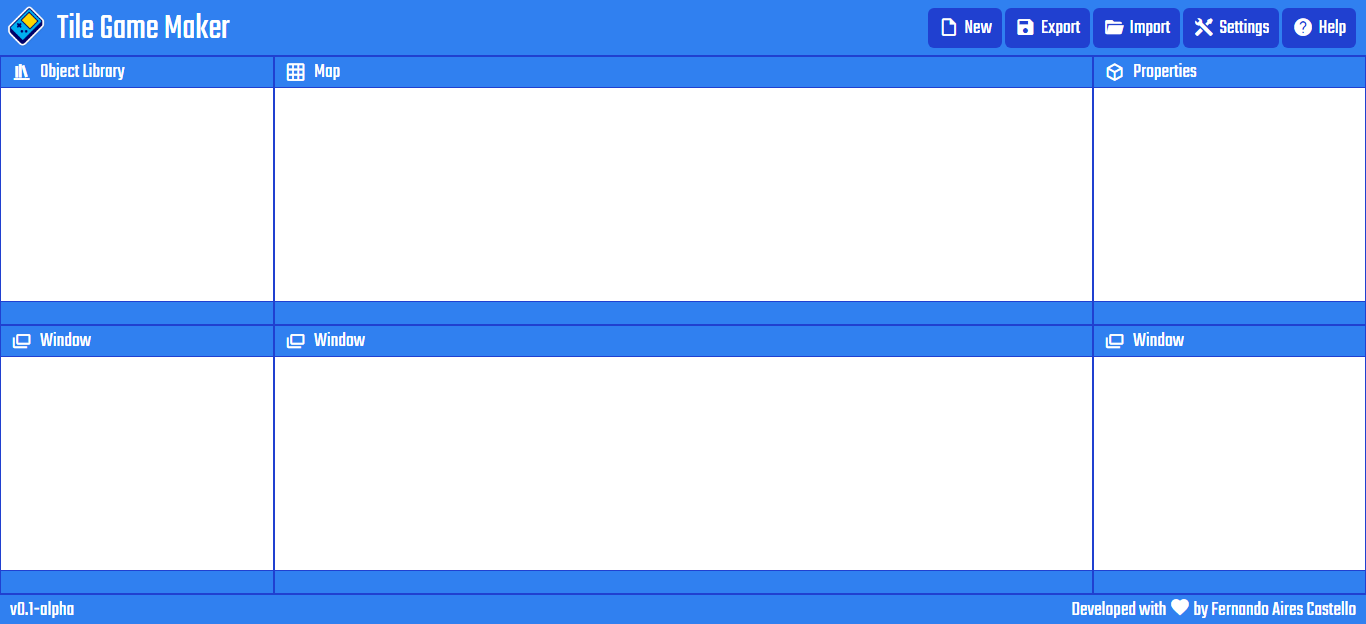
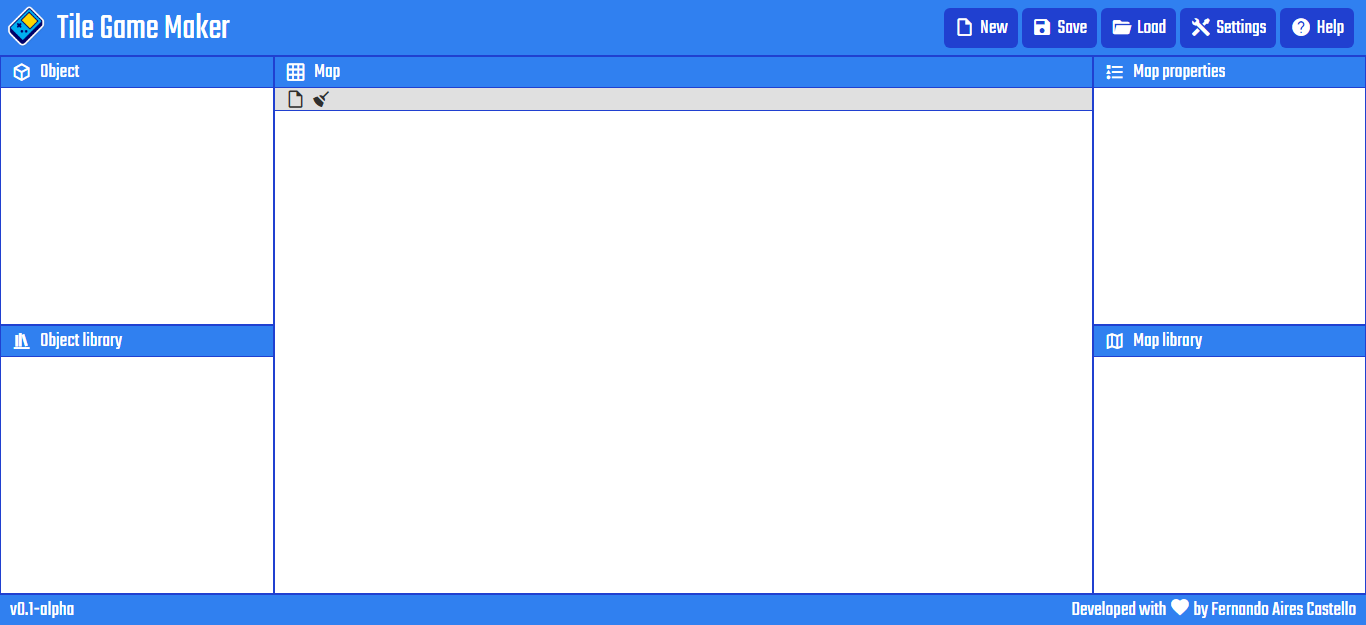
UI improvements

diff --git a/lib/localforage.min.js b/lib/localforage.min.js
@@ -1,0 +1,7 @@
+/*!
+    localForage -- Offline Storage, Improved
+    Version 1.7.3
+    https://localforage.github.io/localForage
+    (c) 2013-2017 Mozilla, Apache License 2.0
+*/
[1 lines of base64/hex data omitted]

diff --git a/tile-game-maker/classes/ui.js b/tile-game-maker/classes/ui.js
@@ -1,24 +1,45 @@
 class TGM_Ui {
 
     constructor() {
+        this.defineButtons();
         this.defineWindows();
         this.initStyles();
-        this.initButtonHandlers();
         this.fadeIn();
     }
 
+    defineButtons() {
+       this.defineButton('file-outline', 'New', () => this.btnNewClick());
+       this.defineButton('content-save', 'Save', () => this.btnSaveClick());
+       this.defineButton('folder-open', 'Load', () => this.btnLoadClick());
+       this.defineButton('tools', 'Settings', () => this.btnSettingsClick());
+       this.defineButton('help-circle', 'Help', () => this.btnHelpClick());
+    }
+
+    defineButton(icon, title, onclick) {
+        const buttons = $('.button-container');
+        const button = `<div class="button"><span class="mdi mdi-${icon}"></span>${title}</div>`;
+        buttons.append(button).click(onclick);
+    }
+
     defineWindows() {
-        this.defineWindow('#top-left-window', 'bookshelf', 'Object Library');
+        $('.floating-window .mdi-close').click(this.hideFloatingWindow);
+        // Map
         this.defineWindow('#top-center-window', 'grid', 'Map');
-        this.defineWindow('#top-right-window', 'cube-outline', 'Properties');
-        this.defineWindow('#bottom-left-window', 'dock-window', 'Window');
-        this.defineWindow('#bottom-center-window', 'dock-window', 'Window');
-        this.defineWindow('#bottom-right-window', 'dock-window', 'Window');
+        this.addToolButton('#top-center-window', 'file-outline', 'New map');
+        this.addToolButton('#top-center-window', 'broom', 'Clear map');
+        // Object
+        this.defineWindow('#top-left-window', 'cube-outline', 'Object');
+        // Object library
+        this.defineWindow('#bottom-left-window', 'bookshelf', 'Object library');
+        // Map properties
+        this.defineWindow('#top-right-window', 'format-list-bulleted-type', 'Map properties');
+        // Map library
+        this.defineWindow('#bottom-right-window', 'map-outline', 'Map library');
     }
 
     defineWindow(windowSelector, icon, title, footer, content) {
         const window = $(windowSelector);
-        window.find('span.mdi').replaceWith(`<span class="mdi mdi-${icon ? icon : ''}">`);
+        window.find('span.mdi').first().replaceWith(`<span class="mdi mdi-${icon ? icon : ''}">`);
         window.find('.window-title').html(title ? title : '');
         window.find('.window-footer').html(footer ? footer : '');
         window.find('.window-content').html(content ? content : '');
@@ -39,51 +60,52 @@ class TGM_Ui {
         this.setWindowBarTextColor('#ffffff');
         this.setWindowBackColor('#ffffff');
         this.setWindowTextColor('#000000');
+        // Toolbars
+        this.setToolbarBackColor('#e0e0e0');
+        this.setToolbarTextColor('#303030');
     }
 
     fadeIn() {
         $('body').fadeIn('slow');
     }
 
-    initButtonHandlers() {
-        $('#btn-new').click(() => this.btnNewClick());
-        $('#btn-export').click(() => this.btnExportClick());
-        $('#btn-import').click(() => this.btnImportClick());
-        $('#btn-settings').click(() => this.btnSettingsClick());
-        $('#btn-help').click(() => this.btnHelpClick());
+    alert(message, title, footer) {
+        this.showFloatingWindow(message, title, footer);
     }
 
-    alert(x, y, width, height, message, title, footer) {
-        this.showFloatingWindow(x, y, width, height, message, title ? title : 'Alert', footer);
+    btnNewClick() {
+    }
+
+    btnSaveClick() {
+    }
+
+    btnLoadClick() {
+    }
+
+    btnSettingsClick() {
     }
 
     btnHelpClick() {
-        this.alert(100, 100, 300, 200, "There's no help here...", "Help");
+        this.alert("There's no help here...", "Help", "Click on the X to close this window");
     }
 
-    showFloatingWindow(x, y, width, height, content, title, footer) {
-        const style = `top:${y}; left:${x}; width:${width}; height:${height}`;
-        const window =
-        `<div class="window floating-window" style="${style}">
-            <div class="window-title-bar">
-                <span class="window-title">${title ? title : ''}</span>
-                <span class="mdi mdi-close"></span>
-            </div>
-            <div class="window-content">${content}</div>
-            <div class="window-footer">${footer ? footer : ''}</div>
-        </div>`;
-
-        $('.floating-window-container').append(window);
-        $('.floating-window-container').fadeIn();
-        $('.floating-window .mdi-close').click(() => this.closeFloatingWindows());
-        $('.floating-window .mdi-close').css('cursor', 'pointer');
-
-        this.initStyles();
+    showFloatingWindow(content, title, footer) {
+        const window = $('.floating-window-container');
+        window.find('.window-title').html(title ? title : '');
+        window.find('.window-footer').html(footer ? footer : '');
+        window.find('.window-content').html(content ? content : '');
+        window.fadeIn();
     }
 
-    closeFloatingWindows() {
+    hideFloatingWindow() {
         $('.floating-window-container').fadeOut();
-        $('.floating-window').remove();
+    }
+
+    addToolButton(windowSelector, icon, title, onclick) {
+        const window = $(windowSelector);
+        const button = `<span class="mdi mdi-${icon}"></span>`;
+        const toolbar = window.find('.window-toolbar');
+        toolbar.append(button);
     }
 
     setWorkspaceBackColor(color) {
@@ -103,6 +125,7 @@ class TGM_Ui {
         $('.footer-bar').css('border-top-color', color);
         $('.window').css('border-color', color);
         $('.window-title-bar').css('border-bottom-color', color);
+        $('.window-toolbar').css('border-bottom-color', color);
         $('.window-footer').css('border-top-color', color);
     }
 
@@ -126,6 +149,14 @@ class TGM_Ui {
     setWindowBarTextColor(color) {
         $('.window-title-bar').css('color', color);
         $('.window-footer').css('color', color);
+    }
+
+    setToolbarBackColor(color) {
+        $('.window-toolbar').css('background', color);
+    }
+
+    setToolbarTextColor(color) {
+        $('.window-toolbar').css('color', color);
     }
 
     makeGradient(color1, color2) {

diff --git a/tile-game-maker/tile-game-maker.html b/tile-game-maker/tile-game-maker.html
@@ -18,7 +18,17 @@
     <script src="tile-game-maker.js"></script>
 </head>
 <body>
-    <div class="floating-window-container"></div>
+    <!-- Floating modal window -->
+    <div class="floating-window-container">
+        <div class="window floating-window">
+            <div class="window-title-bar">
+                <span class="mdi mdi-dock-window"></span>
+                <span class="window-title"></span>
+                <span class="mdi mdi-close"></span>
+            </div>
+            <div class="window-content"></div>
+        </div>
+    </div>
     <table class="root-panel">
         <!-- Top application bar -->
         <tr>
@@ -31,84 +41,63 @@
                         <div class="title">Tile Game Maker</div>
                     </div>
                     <!-- Buttons -->
-                    <div class="button-container">
-                        <div id="btn-new" class="button"><span class="mdi mdi-file-outline"></span>New</div>
-                        <div id="btn-export" class="button"><span class="mdi mdi-content-save"></span>Export</div>
-                        <div id="btn-import" class="button"><span class="mdi mdi-folder-open"></span>Import</div>
-                        <div id="btn-settings" class="button"><span class="mdi mdi-tools"></span>Settings</div>
-                        <div id="btn-help" class="button"><span class="mdi mdi-help-circle"></span>Help</div>
-                    </div>
+                    <div class="button-container"></div>
                 </div>
             </td>
         </tr>
         <!-- Workspace panels -->
         <tr>
             <!-- Top left panel -->
-            <td class="workspace-panel workspace-left-panel">
+            <td class="workspace-panel workspace-top-panel workspace-side-panel">
                 <div id="top-left-window" class="window">
                     <div class="window-title-bar">
                         <span class="mdi"></span>
                         <span class="window-title"></span>
                     </div>
                     <div class="window-content"></div>
-                    <div class="window-footer"></div>
                 </div>
             </td>
             <!-- Top center panel -->
-            <td class="workspace-panel workspace-center-panel">
+            <td class="workspace-panel workspace-top-panel workspace-center-panel" rowspan="2">
                 <div id="top-center-window" class="window">
                     <div class="window-title-bar">
                         <span class="mdi"></span>
                         <span class="window-title"></span>
                     </div>
+                    <div class="window-toolbar"></div>
                     <div class="window-content"></div>
-                    <div class="window-footer"></div>
                 </div>
             </td>
             <!-- Top right panel -->
-            <td class="workspace-panel workspace-right-panel">
+            <td class="workspace-panel workspace-top-panel workspace-side-panel">
                 <div id="top-right-window" class="window">
                     <div class="window-title-bar">
                         <span class="mdi"></span>
                         <span class="window-title"></span>
                     </div>
                     <div class="window-content"></div>
-                    <div class="window-footer"></div>
                 </div>
             </td>
         </tr>
         <tr>
             <!-- Bottom left panel -->
-            <td class="workspace-panel workspace-left-panel">
+            <td class="workspace-panel workspace-bottom-panel workspace-side-panel">
                 <div id="bottom-left-window" class="window">
                     <div class="window-title-bar">
                         <span class="mdi"></span>
                         <span class="window-title"></span>
                     </div>
                     <div class="window-content"></div>
-                    <div class="window-footer"></div>
-                </div>
-            </td>
-            <!-- Bottom center panel -->
-            <td class="workspace-panel workspace-center-panel">
-                <div id="bottom-center-window" class="window">
-                    <div class="window-title-bar">
-                        <span class="mdi"></span>
-                        <span class="window-title"></span>
-                    </div>
-                    <div class="window-content"></div>
-                    <div class="window-footer"></div>
                 </div>
             </td>
             <!-- Bottom right panel -->
-            <td class="workspace-panel workspace-right-panel">
+            <td class="workspace-panel workspace-bottom-panel workspace-side-panel">
                 <div id="bottom-right-window" class="window">
                     <div class="window-title-bar">
                         <span class="mdi"></span>
                         <span class="window-title"></span>
                     </div>
                     <div class="window-content"></div>
-                    <div class="window-footer"></div>
                 </div>
             </td>
         </tr>

diff --git a/tile-game-maker/tile-game-maker.css b/tile-game-maker/tile-game-maker.css
@@ -12,7 +12,7 @@ body {
 /*==============================================================================
     ROOT PANEL
 ==============================================================================*/
-.root-panel, .floating-window-container {
+.root-panel {
     border: 0;
     padding: 0;
     margin: 0;
@@ -22,11 +22,6 @@ body {
 }
 .root-panel {
     border-collapse: collapse;
-}
-.floating-window-container {
-    position: absolute;
-    background-color: rgba(0, 0, 0, 0.5);
-    display: none;
 }
 /*==============================================================================
     TOP / BOTTOM BARS
@@ -72,6 +67,7 @@ td.bar.bottom {
 .button {
     border-radius: 6px;
     padding: 5px 10px;
+    margin: 0px 2px;
     cursor: pointer;
     display: inline-block;
 }
@@ -109,13 +105,10 @@ td.left-panel, td.right-panel {
     vertical-align: top;
     padding: 0;
 }
-.workspace-left-panel {
-    width: 20%;
-}
 .workspace-center-panel {
     width: 60%;
 }
-.workspace-right-panel {
+.workspace-side-panel {
     width: 20%;
 }
 /*==============================================================================
@@ -139,11 +132,18 @@ td.left-panel, td.right-panel {
     user-select: none;
     border-bottom: 1px solid #000;
 }
+.window-toolbar {
+    padding: 0 10px;
+    user-select: none;
+    border-bottom: 1px solid #000;
+}
+.window-toolbar span.mdi {
+    cursor: pointer;
+}
 .window-footer {
     padding: 0 10px;
     user-select: none;
     border-top: 1px solid #000;
-    height: 28px;
 }
 .window-content {
     padding: 0;
@@ -152,10 +152,28 @@ td.left-panel, td.right-panel {
 /*==============================================================================
     FLOATING WINDOWS
 ==============================================================================*/
-.floating-window {
+.floating-window-container {
+    display: none;
+    border: 0;
+    padding: 0;
+    margin: 0;
+    font-size: inherit;
+    background-color: rgba(0, 0, 0, 0.5);
     position: absolute;
-    height: auto;
-    width: auto;
+    top: 0px;
+    left: 0px;
+    height: 100%;
+    width: 100%;
+}
+.floating-window {
+    position: relative;
+    height: 86%;
+    width: 94%;
+    top: 9%;
+    left: 3%;
+}
+.floating-window .mdi-close {
+    cursor: pointer;
 }
 .floating-window .window-content {
     padding: 5px 10px;
